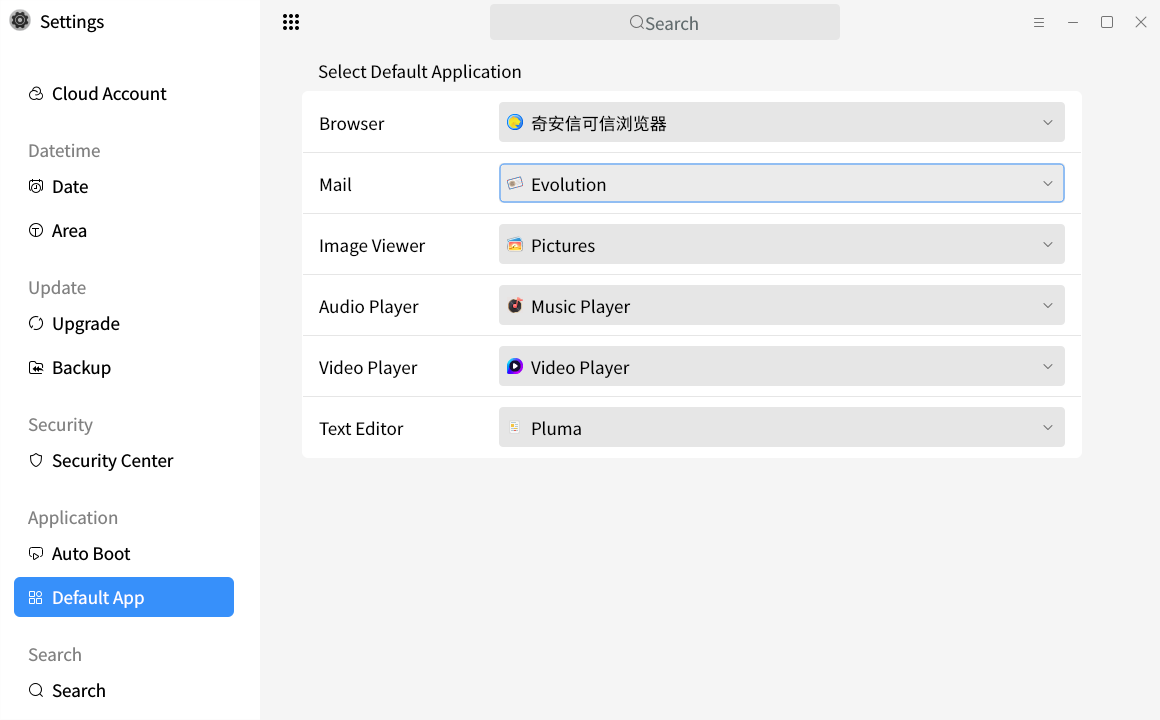
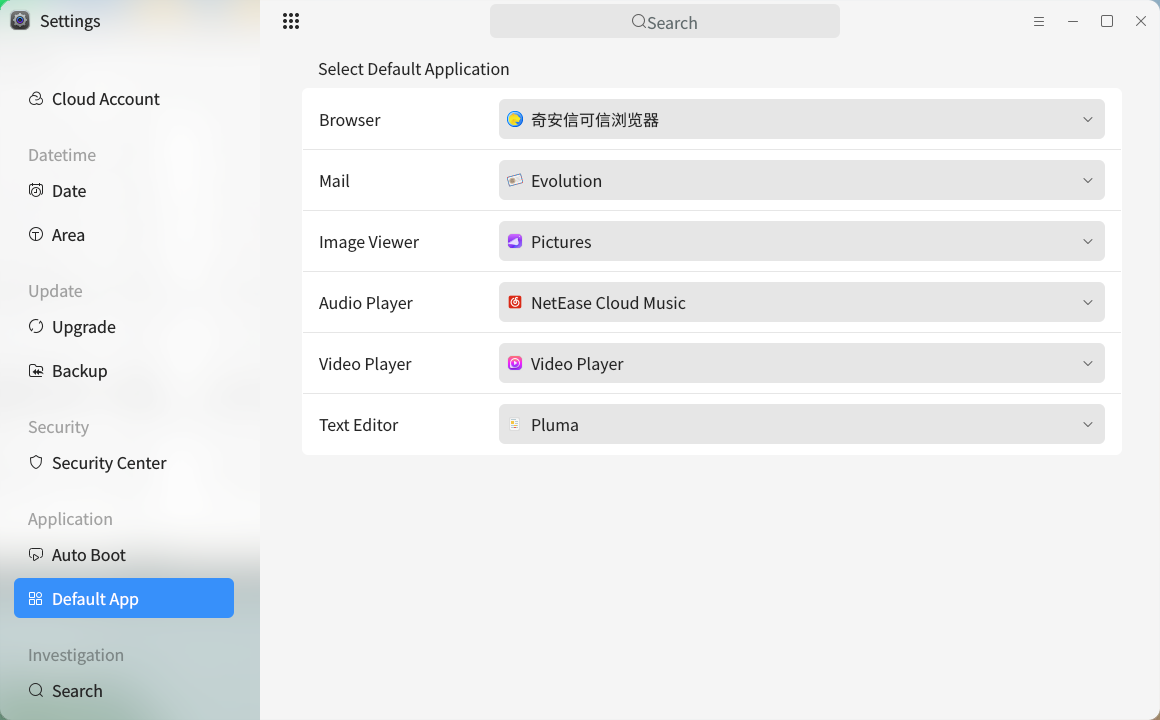
fix(UserManual): UserManual
Description: UserManual

Log: 【用户手册|设置】“设置”的用户手册侧边导航栏中有两个“搜索”
Bug: https://172.17.50.104/biz/bug-view-103995.html

diff --git a/data/en_US/index.md b/data/en_US/index.md
@@ -101,7 +101,7 @@ The function buttons at the sending terminal are in the lower part of the main i
 Receiving terminal on / off button: this button is mutually exclusive with the sending terminal on / off button. When the receiving terminal on / off button is turned on, the receiving terminal on / off button needs to be turned off before the sending terminal on / off button can be turned on (the same is true for the receiving terminal turn on / off button). After opening this button, click Find device to pop up the search window, in which the searchable Kylin-OS device at the receiving terminal will be displayed.
 
  Connection process between mobile phone and Kylin-OS:
- 
+
 1) Open the receiving terminal on / off button (close the sending terminal on / off button first).
 
 2) The mobile phone drop-down menu opens the projection (or mobile phone projection / multi screen collaboration).
@@ -354,7 +354,7 @@ As shown in Fig 34:
 
 ![Fig 34 Defaultapp-big](image/35.png)
 
-## Search
+## Investigation
 
 ### Search
 As shown in Fig 35:

diff --git a/data/zh_CN/index.md b/data/zh_CN/index.md
@@ -628,7 +628,7 @@ Tips：系统至少需要存在一个管理员用户。
 
 ## 搜索
 
-### 搜 索
+### 全局搜 索
 
 通过设置提高搜索效率。
 ![图 36 搜索-big](image/search.png)
